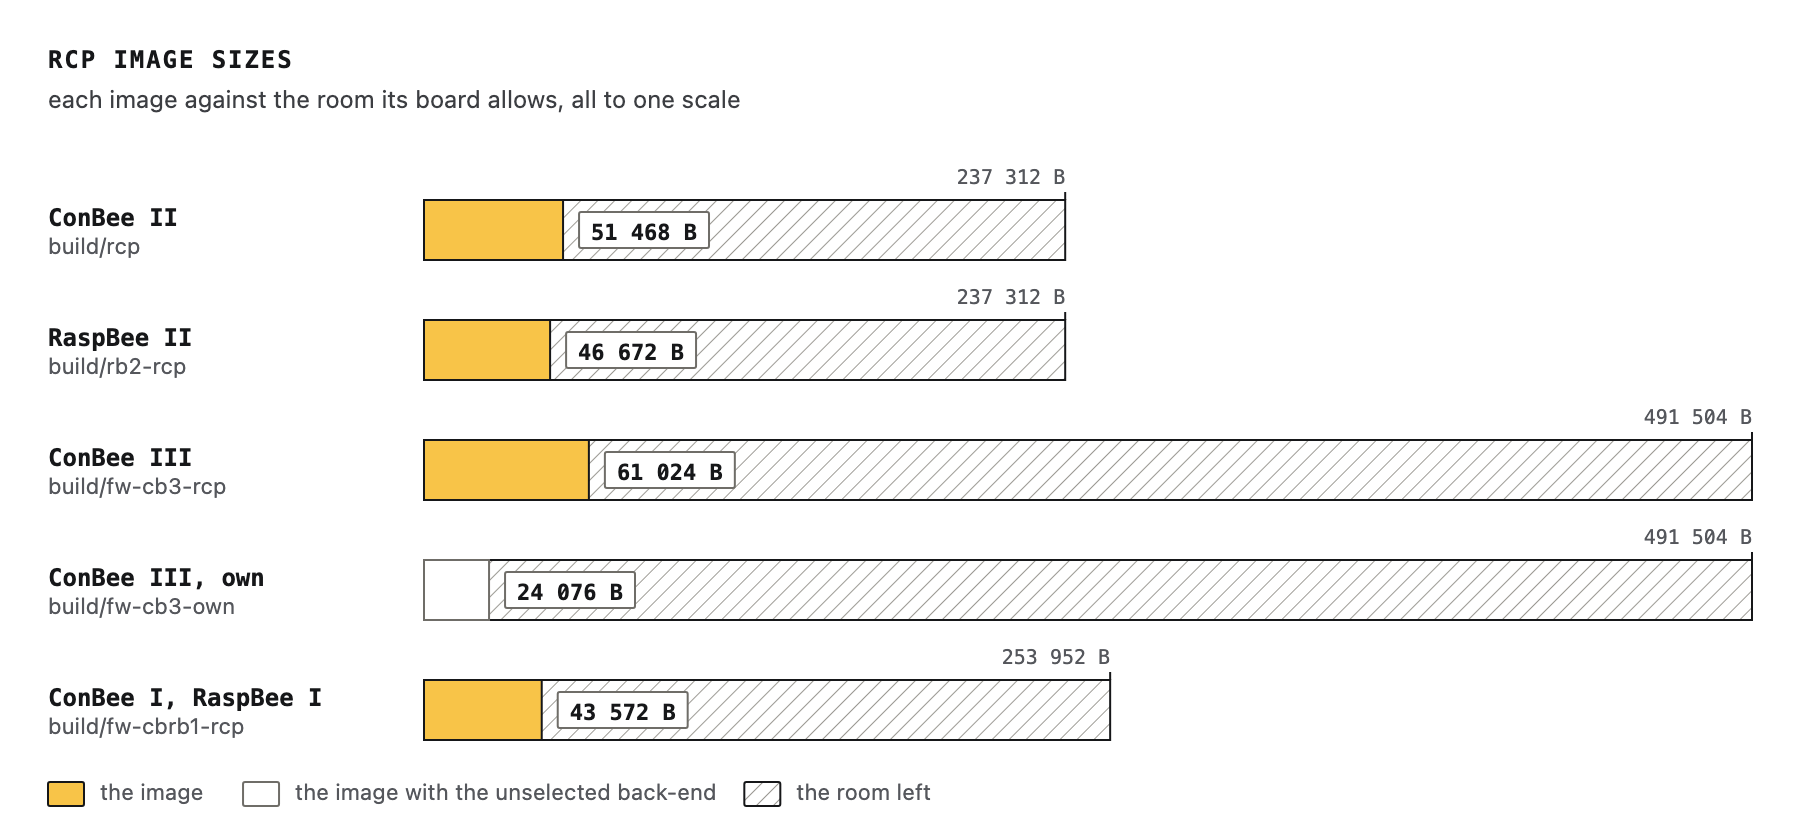
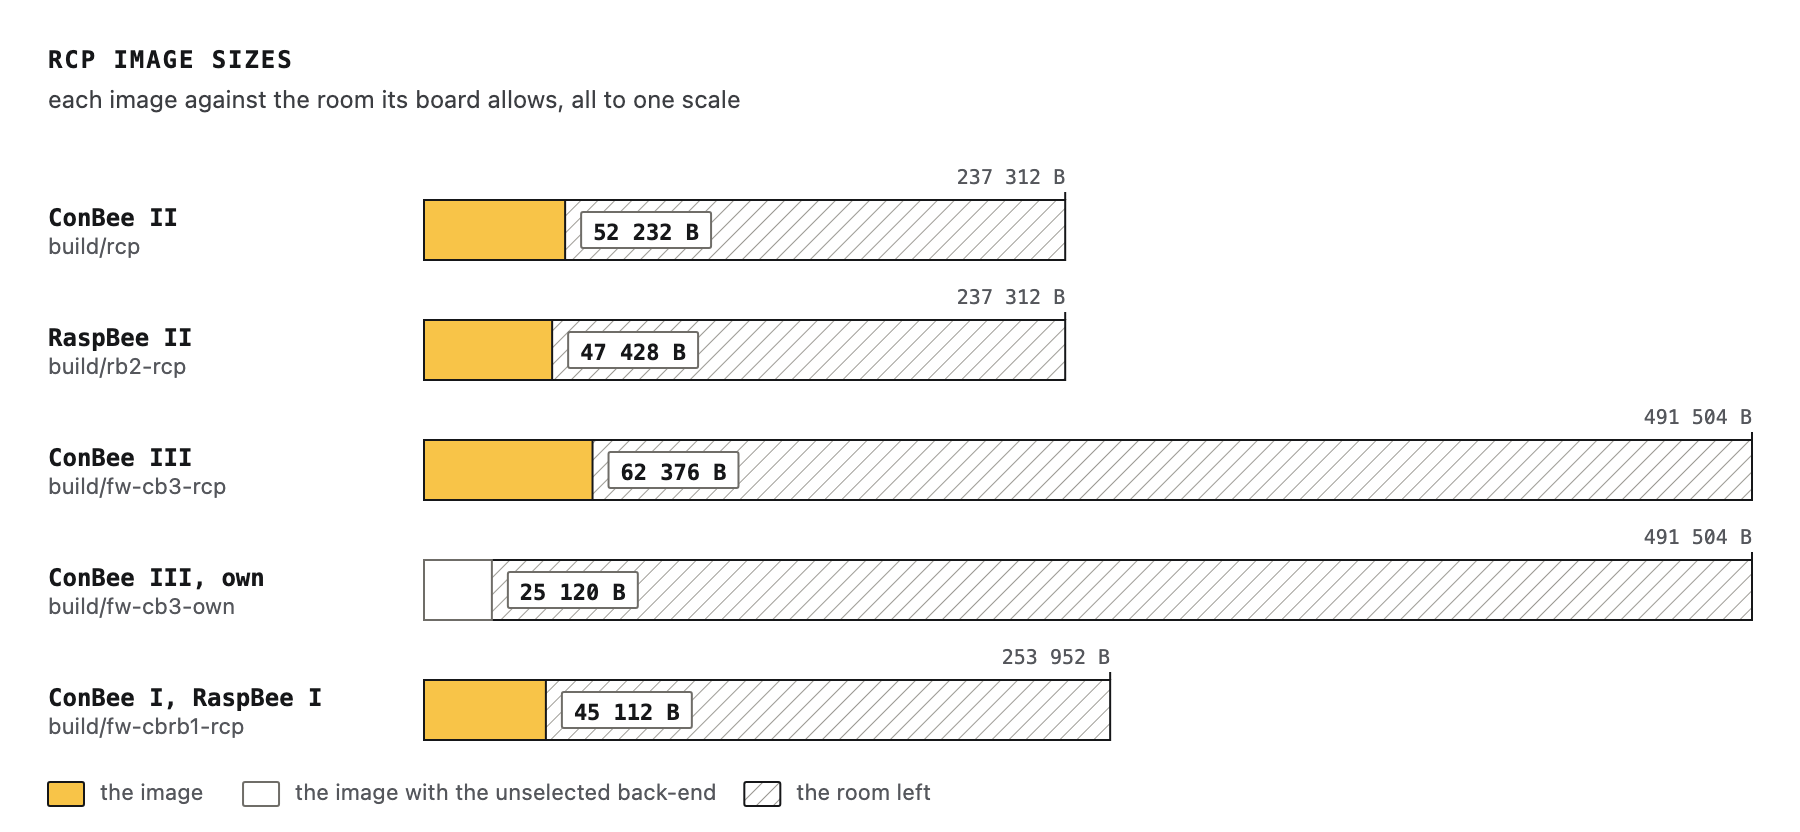
Release 0.2.0
VERSION is 0.2.0, CHANGELOG.md has its entry, and the image and RAM
sizes of docs/build-and-flash.md's figures are measured from an export
of this tree. docs/hardware_avr.md points at those figures rather than
keeping sizes of its own, which had gone stale.

diff --git a/tools/diagrams/image_sizes.py b/tools/diagrams/image_sizes.py
@@ -30,26 +30,26 @@ BAR, ROW = 30, 60
 # one row per image: board, its name, .bin size in bytes, its build directory (a convention), and
 # whether a release builds it
 RCP = (
-    ('cb2', 'ConBee II', 51468, 'build/rcp', True),
-    ('rb2', 'RaspBee II', 46672, 'build/rb2-rcp', True),
-    ('cb3', 'ConBee III', 61024, 'build/fw-cb3-rcp', True),
-    ('cb3', 'ConBee III, own', 24076, 'build/fw-cb3-own', False),
-    ('cbrb1', 'ConBee I, RaspBee I', 43572, 'build/fw-cbrb1-rcp', True),
+    ('cb2', 'ConBee II', 52232, 'build/rcp', True),
+    ('rb2', 'RaspBee II', 47428, 'build/rb2-rcp', True),
+    ('cb3', 'ConBee III', 62376, 'build/fw-cb3-rcp', True),
+    ('cb3', 'ConBee III, own', 25120, 'build/fw-cb3-own', False),
+    ('cbrb1', 'ConBee I, RaspBee I', 45112, 'build/fw-cbrb1-rcp', True),
 )
 PROBE = (
-    ('cb2', 'ConBee II', 31516, 'build/fw', True),
-    ('rb2', 'RaspBee II', 26716, 'build/rb2', True),
-    ('cb3', 'ConBee III', 7264, 'build/fw-cb3', True),
-    ('cbrb1', 'ConBee I, RaspBee I', 6624, 'build/fw-cbrb1', True),
+    ('cb2', 'ConBee II', 31688, 'build/fw', True),
+    ('rb2', 'RaspBee II', 26880, 'build/rb2', True),
+    ('cb3', 'ConBee III', 7456, 'build/fw-cb3', True),
+    ('cbrb1', 'ConBee I, RaspBee I', 6854, 'build/fw-cbrb1', True),
 )
 # the same rows for RAM: every byte the linker places there - .data, .bss and .noinit, on cb3 also the
 # bootloader's 32-byte reset record; on cbrb1 .data holds .rodata as well, which avr-gcc reads from RAM
 RCP_RAM = (
-    ('cb2', 'ConBee II', 9416, 'build/rcp', True),
-    ('rb2', 'RaspBee II', 12264, 'build/rb2-rcp', True),
-    ('cb3', 'ConBee III', 14240, 'build/fw-cb3-rcp', True),
-    ('cb3', 'ConBee III, own', 13540, 'build/fw-cb3-own', False),
-    ('cbrb1', 'ConBee I, RaspBee I', 12020, 'build/fw-cbrb1-rcp', True),
+    ('cb2', 'ConBee II', 9424, 'build/rcp', True),
+    ('rb2', 'RaspBee II', 12272, 'build/rb2-rcp', True),
+    ('cb3', 'ConBee III', 14272, 'build/fw-cb3-rcp', True),
+    ('cb3', 'ConBee III, own', 13568, 'build/fw-cb3-own', False),
+    ('cbrb1', 'ConBee I, RaspBee I', 12024, 'build/fw-cbrb1-rcp', True),
 )
 
 

diff --git a/docs/build-and-flash.md b/docs/build-and-flash.md
@@ -73,15 +73,15 @@ cmake --build build/fw-cbrb1-rcp
 
 A build writes `phoscon-rcp` (ELF), `.bin`, `.map` and, after packaging, `.bin.GCF` into its build directory. The linker and a build-time guard both refuse an image over the board's budget. Figures 1 to 3 are the one record of the measured sizes.
 
-![One row per RCP image, all to one byte scale, each an amber bar for the image on a hatched track for the room its board allows. ConBee II, cb2, 51 468 B of 237 312 B, in build/rcp. RaspBee II, rb2, 46 672 B of 237 312 B, in build/rb2-rcp. ConBee III, cb3, 61 024 B of 491 504 B, in build/fw-cb3-rcp. ConBee III with the unselected own back-end, 24 076 B of 491 504 B, in build/fw-cb3-own, its bar white. ConBee I and RaspBee I, cbrb1, 43 572 B of 253 952 B, in build/fw-cbrb1-rcp.](images/image-sizes-rcp.png)
+![One row per RCP image, all to one byte scale, each an amber bar for the image on a hatched track for the room its board allows. ConBee II, cb2, 52 232 B of 237 312 B, in build/rcp. RaspBee II, rb2, 47 428 B of 237 312 B, in build/rb2-rcp. ConBee III, cb3, 62 376 B of 491 504 B, in build/fw-cb3-rcp. ConBee III with the unselected own back-end, 25 120 B of 491 504 B, in build/fw-cb3-own, its bar white. ConBee I and RaspBee I, cbrb1, 45 112 B of 253 952 B, in build/fw-cbrb1-rcp.](images/image-sizes-rcp.png)
 
 *Figure 1 — every RCP image against its board's budget, with its build directory by convention. The budgets are read from `tools/gcf_check.py`. Source: `tools/diagrams/image_sizes.py`.*
 
-![One row per probe image, to the same scale as Figure 1. ConBee II, cb2, 31 516 B of 237 312 B, in build/fw. RaspBee II, rb2, 26 716 B of 237 312 B, in build/rb2. ConBee III, cb3, 7 264 B of 491 504 B, in build/fw-cb3. ConBee I and RaspBee I, cbrb1, 6 624 B of 253 952 B, in build/fw-cbrb1.](images/image-sizes-probe.png)
+![One row per probe image, to the same scale as Figure 1. ConBee II, cb2, 31 688 B of 237 312 B, in build/fw. RaspBee II, rb2, 26 880 B of 237 312 B, in build/rb2. ConBee III, cb3, 7 456 B of 491 504 B, in build/fw-cb3. ConBee I and RaspBee I, cbrb1, 6 854 B of 253 952 B, in build/fw-cbrb1.](images/image-sizes-probe.png)
 
 *Figure 2 — every probe image, to the scale of Figure 1. Source: `tools/diagrams/image_sizes.py`.*
 
-![One row per RCP image, to a scale of its own, each an amber bar for the RAM the image allocates at link time on a hatched track for the rest of its part's RAM. ConBee II, cb2, 9 416 B of 32 768 B. RaspBee II, rb2, 12 264 B of 32 768 B. ConBee III, cb3, 14 240 B of 98 304 B. ConBee III with the unselected own back-end, 13 540 B of 98 304 B, its bar white. ConBee I and RaspBee I, cbrb1, 12 020 B of 32 768 B.](images/image-sizes-ram.png)
+![One row per RCP image, to a scale of its own, each an amber bar for the RAM the image allocates at link time on a hatched track for the rest of its part's RAM. ConBee II, cb2, 9 424 B of 32 768 B. RaspBee II, rb2, 12 272 B of 32 768 B. ConBee III, cb3, 14 272 B of 98 304 B. ConBee III with the unselected own back-end, 13 568 B of 98 304 B, its bar white. ConBee I and RaspBee I, cbrb1, 12 024 B of 32 768 B.](images/image-sizes-ram.png)
 
 *Figure 3 — the RAM every RCP image allocates at link time: `.data`, `.bss` and `.noinit`, on `cb3` also the bootloader's reset record, on `cbrb1` also `.rodata`, which the AVR reads from RAM. The rest is where the stack grows down from the top; on `cb3` the linker keeps `.bss` below the panic mark at `0x20008000` and 8 KiB above it for the stack. The RAM is read from each board's linker script. Source: `tools/diagrams/image_sizes.py`.*
 

diff --git a/docs/hardware_avr.md b/docs/hardware_avr.md
@@ -77,7 +77,7 @@ How the image built here meets the part, and how each step is checked:
 | radio | the ConBee II's scheme: `RX_ON` in every mode, the filter and the Ack composed in the `RX_END` vector (`TX_START` 176 µs after the frame), transmission through `TX_ARET_ON` | 300 of 300 Ack-requesting frames acknowledged first time, none late |
 | power | capped at the vendor's setting, index `0x0E` (−11.5 dBm at the transceiver) | the radiated level is not measured |
 
-Sizes: the probe image is 6 624 B, the `rcp` image 43 702 B of the 253 952 B application area; the `rcp` image uses 11.7 KiB of SRAM.
+The images' flash and SRAM sizes are the figures of `docs/build-and-flash.md`.
 
 Measured on a **ConBee I** against ConBee IIs and a ConBee III on channel 22: every cell of `tools/cb3_rcp_check.py --baud 57600`, `tools/rcp_pair.py` (the nine Frame Pending cells included) and `tools/rcp_matrix.py`. An immediate Ack starts 212 to 230 µs after the frame on a third stick's clock, idle or back to back, with an empty or a full source table. A Phoscon Zigbee Stack coordinator and router form a network through it in either role. The **RaspBee I** on a Raspberry Pi 5 passes `tools/rcp_matrix.py` against a ConBee II and a ConBee III, and a Phoscon Zigbee Stack coordinator and router form a network through it in either role. The vendor app `0x260B0500` found on that RaspBee I ignores GCFFlasher's reset frame, so its first update needs the reset line (`docs/build-and-flash.md`).
 

diff --git a/CHANGELOG.md b/CHANGELOG.md
@@ -2,6 +2,20 @@
 
 Each release of the firmware, newest first. A stick reports its release in `NCP_VERSION` (`README.md`).
 
+## 0.2.0
+
+- ConBee III: the host may raise the link to 1 000 000 Bd with `UART_BITRATE`; a RESET, or a host that starts over at 115 200, returns it to 115 200 (`docs/protocol.md`).
+- ConBee III: the link to the host can no longer stall on a lost TX-complete flag.
+- ConBee II: a transmission no longer waits a tick between its steps, so more frames a second go out (`docs/stats.md`).
+- A transmission in flight at RESET finishes unanswered, and RESET clears the MAC security state, the source match table and every property to its power-on value.
+- A frame's own channel stands until the host writes `PHY_CHAN`.
+- The watchdog resets a stick whose transmission stays stuck, and the reset cause reaches the host on the ConBee II as well.
+- ConBee III: no Ack for a frame the receive ring cannot take, and an Ack's Frame Pending bit travels with its own frame.
+- ConBee I, RaspBee I: an Ack that ends while an Enhanced Ack's MIC is computed no longer turns the receiver on early.
+- The flasher's reset frame is never matched inside a Spinel frame.
+- A property id past 32 bits is malformed and goes unanswered.
+- The pre-flash guard refuses a container that is not its `.bin`'s.
+
 ## 0.1.0
 
 The first public release, an early one.
